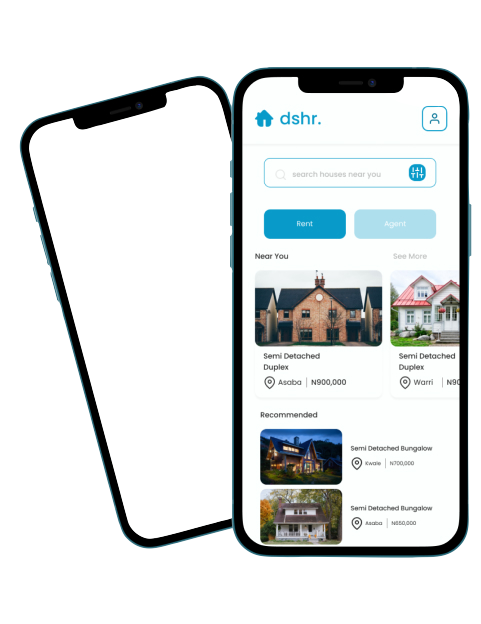
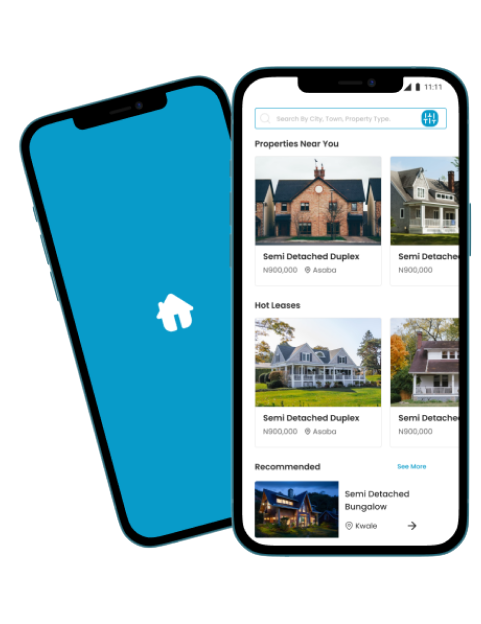
Level of progress (backend on point)...

diff --git a/src/components/Featured.js b/src/components/Featured.js
@@ -7,27 +7,42 @@ import Card from '../components/Card';
 import Loader from './Loader'
 // import properties from '../data'
 
-const url = "http://localhost:9000/api/vi/properties"
-// const url = "https://ict-yep.herokuapp.com/api/v1/properties"
+//const url = "http://localhost:9000/api/vi/properties"
+
 
 function Featured() {
-    const [properties, setProperties] = useState([])
+    const [properties, setProperties] = useState([]);
+    const url = "https://ict-yep.herokuapp.com/api/v1/properties";
     const [isLoading,setIsLoading] = useState(true)
+//axios.get(url).then((response) => {
+  //  setLists(response.data.results);
+//});
 
-    const getData = async() => {
-        const response = await axios.get(url)
-        
-        console.log(response.data)
+useEffect(() => {
+    axios.get(url).then((response) => {
+        setProperties(response.data.data);
         if (response.data.data) {
-            // console.log(response.data)
-            setProperties(response.data.data)
-            setIsLoading(false)
-            // console.log(properties)
-        }
-    }
-    useEffect(() => {
-       getData ()
-    },[])
+    console.log(response.data)
+    setProperties(response.data.data)
+    setIsLoading(false)
+}
+    });
+  },[url]);
+  
+
+// axios.get(url).then((response) {
+//     setProperties(response.data)
+//         console.log(response)
+//         if (response.data.data) {
+//              console.log(response.data)
+//             setProperties(response.data.data)
+//             setIsLoading(false)
+//             // console.log(properties)
+//         }
+//     }
+//     useEffect(() => {
+//        getData ()
+//     },[])
 
     const addZero = (n) => {
         return n<10? `0${n}`:n

diff --git a/src/components/Hero.css b/src/components/Hero.css
@@ -22,16 +22,25 @@
     }
 }
 .hero-search{
-    position: absolute;
-    width: 49.38rem;
-    height: 7rem;
+display: flex;
+width: 790px;
+height: 112px;
+position: relative;
+left: 2%;
+top: -50px;
+background: #FCFFFE;
+border-radius: 12px 12px 12px 12px;
+flex-wrap: wrap;
+    /* position: absolute;
+    width: 52%;
+    height: 13%;
     background-color: #FCFFFE;
     border-radius:0.75rem;
-    left: 25%;
-    top:38.00rem;
-    display: flex;
+    left: 26.5%;
+    top:62%;
+    display: flex; */
 }
-@media screen and (max-width:768px){
+/* @media screen and (max-width:768px){
    .hero-search{
       display: block;
       flex-direction: row;
@@ -41,7 +50,7 @@
       top:-20rem;
       justify-content: center;
    }
-}
+} */
 .search{
     
     width: 164px;

diff --git a/src/App.js b/src/App.js
@@ -13,6 +13,7 @@ import NavBar from './components/NavBar';
 import Dashboard from './pages/Dashboard';
 import Confirmation from './components/Confirmation';
 import Forent from './pages/Forent';
+import AddNewProperty from './pages/AddNewProperty';
 //import Loader from './components/Loader';
 
 
@@ -57,6 +58,7 @@ function App() {
             <Route exact path="/properties/:id" component={Property} />
             <Route exact path="/dashboard/:id" component={Dashboard}/>
             <Route exact path="/properties" component={Forent}/>
+            <Route exact path="/AddNewProperty" children={<AddNewProperty/>} />
           </Switch>
         </main>
         {/* <NavbarUser />

diff --git a/src/pages/Dashboard.css b/src/pages/Dashboard.css
@@ -54,6 +54,18 @@
     border: none;
     cursor: pointer;
 }
+.dashboard_content>.Link>button{
+    width: 13.06rem;
+    height: 3.5rem;
+    margin-top: 3%;
+    border-radius: 0.75rem;
+    background-color: #089BC9;
+    color: #fff;
+    position: relative;
+    left: 73%;
+    border: none;
+    cursor: pointer;
+}
 .properties{
     margin-top: 2rem;
      display: grid;
